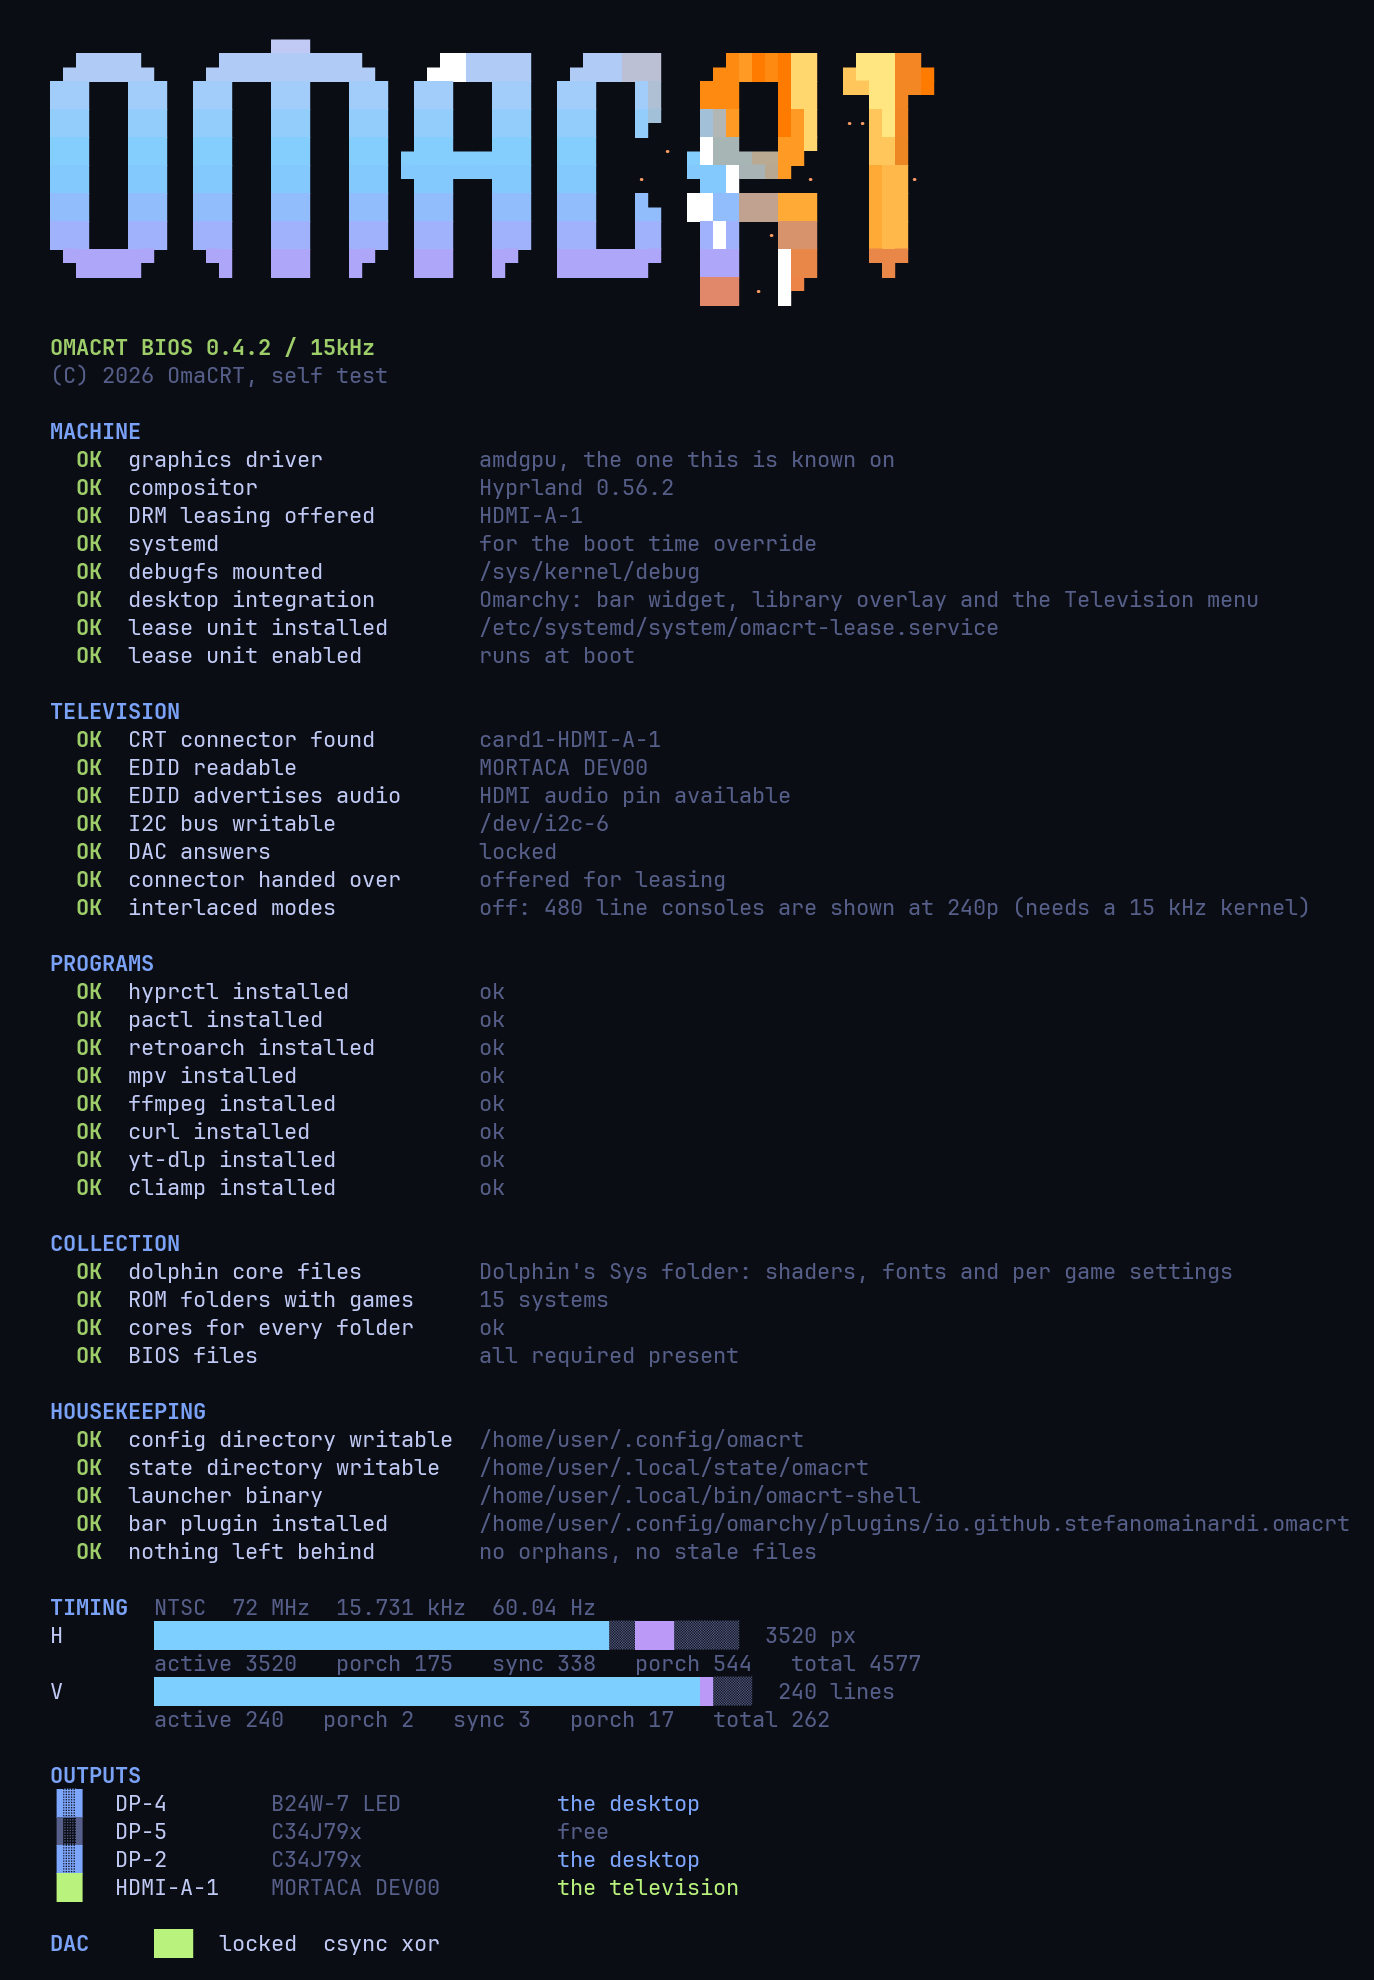
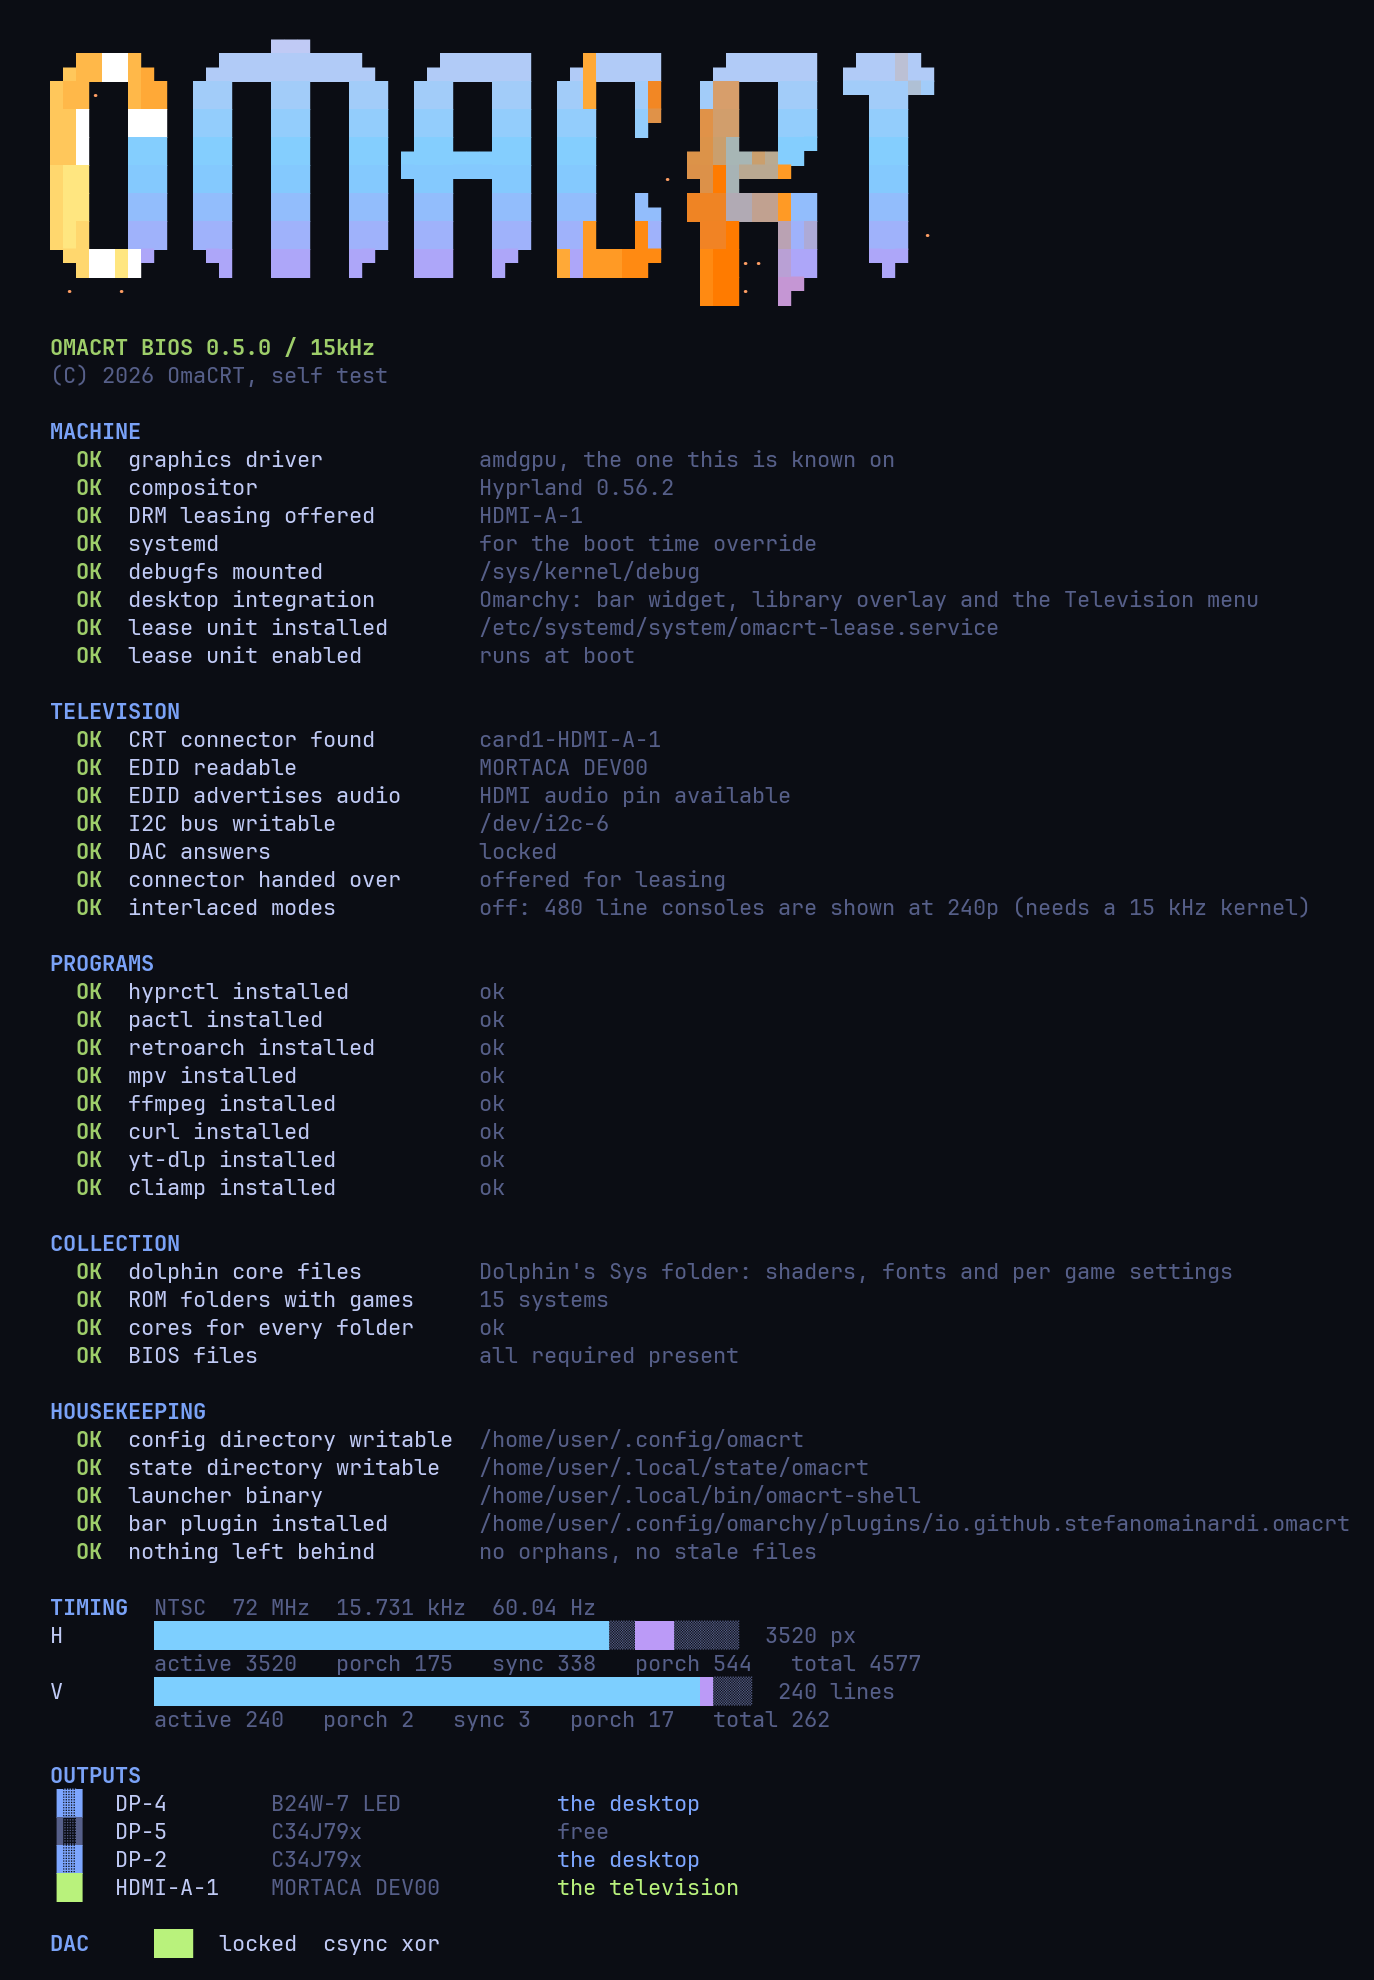
chore(release): 0.5.0
Omarchy becomes one of two channels, and the self test becomes the first
screen of the project: the command to run before buying a DAC, drawn as
the launcher's own power on self test.

Changed region(s): [[0.3974, 0.0, 0.7031, 0.154], [0.0306, 0.0, 0.1223, 0.154], [0.3057, 0.0308, 0.3362, 0.0616]]

diff --git a/CHANGELOG.md b/CHANGELOG.md
@@ -7,14 +7,21 @@ caveat for a 0.x project: anything may still move.
 
 ## [Unreleased]
 
+## [0.5.0] - 2026-09-11
+
+Omarchy is now one of two channels rather than the requirement. The
+television, the launcher, the timings and the whole command line never needed
+it; what needed it was the bar widget, the library overlay and the Television
+menu entry, which are its plugins. The other half of the release is the self
+test: the command to run before buying a DAC, drawn as the launcher's own
+power on self test.
+
 ### Added
 
-- A second channel: OmaCRT runs on plain Hyprland. The television, the
-  launcher, the timings and the whole command line never needed Omarchy;
-  what needed it was the bar widget, the library overlay and the Television
-  menu entry, which are its plugins. Without it the installer writes none of
-  them, says so, and points at `docs/hyprland.md`, which carries the
-  keybindings that replace them.
+- A second channel: OmaCRT runs on plain Hyprland. Without Omarchy the
+  installer writes nothing under `~/.config/omarchy`, says which four things
+  it skipped, and points at `docs/hyprland.md`, which carries the keybindings
+  that replace the bar widget.
 - Four palettes compiled into the launcher, so the Style screen offers a
   choice on a machine with no desktop themes to read: Tokyo Night, a green
   phosphor monitor, an amber one, and a television.
@@ -28,36 +35,24 @@ caveat for a 0.x project: anything may still move.
   wordmark cut out of the dark by the same laser the boot screen uses, in
   characters, advancing as each check answers. Under it the report: the
   timings drawn as a diagram with the real numbers, the card's outputs and
-  what each is for, and the DAC's lock as a lamp. Piped, redirected,
-  `NO_COLOR`, `TERM=dumb` or `--plain`, it prints the lines it always did,
-  and the exit code is unchanged.
+  what each is for, and the DAC's lock as a lamp. It is drawn with ratatui,
+  inline rather than on the alternate screen, so the report stays in the
+  scrollback. Piped, redirected, `NO_COLOR`, `TERM=dumb` or `--plain`, it
+  prints the lines it always did, and the exit code is unchanged.
 - `omacrt setup` shows that same map and lets the arrow keys choose the
   output, instead of printing a list and guessing.
 - `omacrt-display globals` reports what the compositor offers for leasing
   without taking a lease, so it is safe with the television running.
 
-### Fixed
+### Security
 
-- `doctor` no longer reports `connector handed over` as a failure on a
-  machine where the tube is working. A non-desktop connector still appears in
-  `hyprctl monitors all`, marked disabled, and being listed was read as the
-  compositor still holding it.
-- `doctor` no longer reports debugfs as missing. It looked inside a directory
-  that only root can open.
-- The launcher no longer installs five Hyprland window rules in a leased
-  session, where no window they describe can exist.
-- `off` no longer writes `misc:on_focus_under_fullscreen = 1` into a session
-  that never had it. Only a value this project saved is put back.
-- The one time cleanup of what versions up to 0.2.0 left on the compositor
-  runs once and is remembered, instead of on every `off` and every login.
-
-### Changed
-
-- The package declares what the binaries link. `libinput` and `seatd` were
-  listed and are used by nothing here; `libdrm` and `wayland` were missing.
-- cliamp is not Omarchy's music player. It is `bjarneo/cliamp`, found on
-  `PATH`, and four places said otherwise, including the message the Music
-  screen shows when it is missing.
+- A device cannot write escape sequences into the terminal. An EDID's product
+  name is thirteen bytes chosen by whatever is plugged in, and every one of
+  them was turned into a character and printed by `status`, `setup` and
+  `doctor`. An escape sequence there repaints the line it is on, and painting
+  `OK` over a failure on the report somebody runs to decide whether to trust
+  their setup is worth more to an attacker than it sounds. Everything that is
+  not printable is dropped where the EDID is read.
 
 ### Changed
 
@@ -69,6 +64,37 @@ caveat for a 0.x project: anything may still move.
   and never takes an output the compositor is drawing on. A name in the EDID
   still wins first, so a known DAC is recognised before the override is
   installed.
+- The package declares what the binaries link. `libinput` and `seatd` were
+  listed and are used by nothing here; `libdrm` and `wayland` were missing.
+- cliamp is not Omarchy's music player. It is `bjarneo/cliamp`, found on
+  `PATH`, and four places said otherwise, including the message the Music
+  screen shows when it is missing.
+
+### Fixed
+
+- `doctor` no longer reports `connector handed over` as a failure on a
+  machine where the tube is working. A non-desktop connector still appears in
+  `hyprctl monitors all`, marked disabled, and being listed was read as the
+  compositor still holding it.
+- `doctor` no longer reports debugfs as missing. It looked inside a directory
+  that only root can open.
+- A probe that panics no longer leaves the animation running at thirty frames
+  a second for ever, and Ctrl+C during it ends the run instead of being
+  swallowed by raw mode.
+- The report holds nobody at a machine with nothing to fix: the keys are
+  offered only when a remedy exists.
+- The timing diagram's bars are bounded by the width of the bar, rather than
+  by whatever the modeline in the configuration file says.
+- A built in palette survives a restart. The startup path looked the name up
+  among the theme files, where a palette with no file is not, so the desktop's
+  theme came back. A palette the desktop already has by that name is no longer
+  offered twice.
+- The launcher no longer installs five Hyprland window rules in a leased
+  session, where no window they describe can exist.
+- `off` no longer writes `misc:on_focus_under_fullscreen = 1` into a session
+  that never had it. Only a value this project saved is put back.
+- The one time cleanup of what versions up to 0.2.0 left on the compositor
+  runs once and is remembered, instead of on every `off` and every login.
 
 ## [0.4.2] - 2026-09-10
 
@@ -790,7 +816,8 @@ First light: the television leased away from the desktop and driven by its own
 compositor, a launcher drawn at 320x240, games at native line counts, the bar
 plugin, music through cliamp and video through mpv.
 
-[Unreleased]: https://github.com/stefanomainardi/omacrt/compare/v0.4.2...HEAD
+[Unreleased]: https://github.com/stefanomainardi/omacrt/compare/v0.5.0...HEAD
+[0.5.0]: https://github.com/stefanomainardi/omacrt/releases/tag/v0.5.0
 [0.4.2]: https://github.com/stefanomainardi/omacrt/releases/tag/v0.4.2
 [0.4.1]: https://github.com/stefanomainardi/omacrt/releases/tag/v0.4.1
 [0.4.0]: https://github.com/stefanomainardi/omacrt/releases/tag/v0.4.0

diff --git a/README.md b/README.md
@@ -210,8 +210,11 @@ None of them needs a DAC to be plugged in.
 In a terminal it is the launcher's own power on self test, cut by the same
 laser as the boot screen and advancing as each check answers, and then the
 report: the modeline drawn rather than listed, the card's outputs and what
-each is for, and the DAC's lock as a lamp. Piped, redirected, under
-`NO_COLOR`, or with `--plain`, it prints the lines it always printed.
+each is for, and the DAC's lock as a lamp. It is drawn with
+[ratatui](https://ratatui.rs), inline rather than on the alternate screen, so
+the report stays in the scrollback where it can be read again and pasted into
+an issue. Piped, redirected, under `NO_COLOR`, or with `--plain`, it prints
+the lines it always printed.
 
 <p align="center">
   <img src="docs/screens/doctor.png" width="760" alt="The report: the wordmark, a BIOS line, checks grouped into machine, television, programs, collection and housekeeping, then the modeline as a diagram, the outputs as a map, and the DAC's lock">

diff --git a/THIRD-PARTY.md b/THIRD-PARTY.md
@@ -40,6 +40,10 @@ piece means carrying their notice with it.
   reconstruction of the IBM PC BIOS face, from
   [font8x8](https://github.com/dhepper/font8x8) (public domain / CC0). The
   table lives in `shell/src/font8x8.rs`.
+- **ratatui** and **crossterm**, which draw the terminal side of the project:
+  the self test's report, its diagrams and the output picker.
+  [ratatui](https://ratatui.rs) (MIT) and
+  [crossterm](https://github.com/crossterm-rs/crossterm) (MIT).
 - The Rust crates listed in `shell/Cargo.toml`, each under its own licence,
   MIT or Apache 2.0 in every case. `cargo tree` and `cargo license` print the
   current set.
